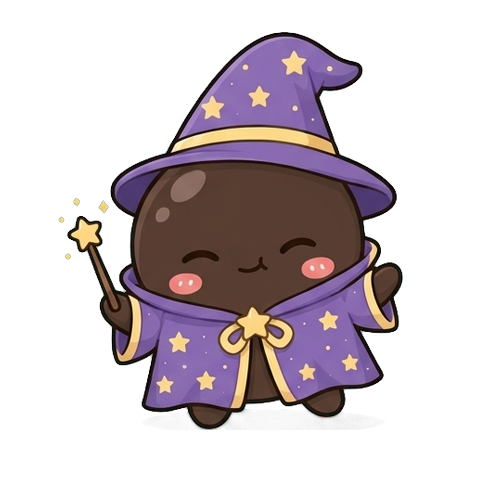
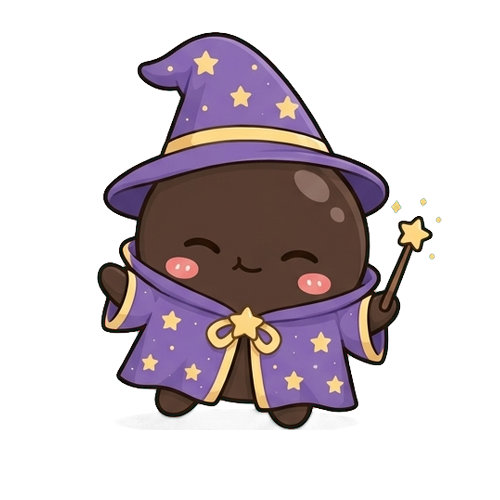
Audit-pass-2 fixes: game HUD, catch spawn, pulse race, cafe-glow, reduced-motion, wizard
Second-pass opus audit returned 15 confirmed; fixing here:

- HIGH install banner covered every game HUD (score/timer/quit) on any
  Chromium that fires beforeinstallprompt. Body now gets .game-open when
  a game opens (openPearlGame/openPlinko/openPong + counterparts), CSS
  slides the banner up while that class is present.
- HIGH catch board: pearls/ice/bombs spawned across the full game-area
  width, so they fell through the drawn pantry shelves at both sides — a
  target the cup couldn't chase. Spawn range now inset 14% on both sides
  to match the visible playfield.
- HIGH pulseMaker same-class timer race: a second pulse fired within the
  first's window used to be silently cut short at the FIRST setTimeout's
  remove(). Per-class timer id map + clearTimeout on re-entry keeps the
  full second animation.
- HIGH paid themes .cafe-glow silently hidden on winter/galaxy/library/
  sunset — disable rule was doubled (.cafe-glow.cafe-glow, 0,3,0) and
  the re-enable was single-class (0,2,0), so the tiebreak killed the
  second animated layer premium buyers paid for. Doubled the re-enable
  to match specificity. Verified: cafe-glow computed display now block
  on all four paid themes.
- HIGH wizard mixing pose: wand held out to the LEFT while the cup is on
  the RIGHT — same wrong-facing bug fix #5 corrected for the other five
  skins. wizard-mixing.png flipped in place; pose integrity gate PASSES.
- HIGH onboarding CTA text wrapped to two lines on every phone width and
[…]

Changed region(s): [[0.12, 0.06, 0.9, 0.87], [0.12, 0.51, 0.15, 0.54]]

diff --git a/app.js b/app.js
@@ -509,12 +509,20 @@ function setMakerState(stateName) {
 // Play a one-shot reaction class on the maker (pop / celebrate) without
 // disturbing its looping idle/mixing animation. Applied to the WRAP, not the
 // img, so the two animations compose instead of one replacing the other.
+// Per-class timer id, so a second pulseMaker(cls) call within the first
+// animation's window doesn't lose the tail of the second when the FIRST
+// setTimeout fires and strips the class early.
+const _pulseTimers = Object.create(null);
 function pulseMaker(cls, ms) {
   const wrap = els.makerWrap;
+  if (_pulseTimers[cls]) { clearTimeout(_pulseTimers[cls]); _pulseTimers[cls] = 0; }
   wrap.classList.remove(cls);
   void wrap.offsetWidth;       // force reflow so the animation restarts
   wrap.classList.add(cls);
-  setTimeout(() => wrap.classList.remove(cls), ms);
+  _pulseTimers[cls] = setTimeout(() => {
+    wrap.classList.remove(cls);
+    _pulseTimers[cls] = 0;
+  }, ms);
 }
 
 // Happy hop + a burst of treats over the scene
@@ -3529,6 +3537,12 @@ function showPremiumPreview(title, price) {
   }
 }
 
+// Any open game overlay owns the surface — the install banner sat on top of
+// the game HUD (score/timer/quit). This class is the toggle CSS reads.
+function markGameOpen(open) {
+  document.body.classList.toggle("game-open", !!open);
+}
+
 function stopGame() {
   if (game.active) {
     bankCatchScore();   // early exit (quit / break ended) keeps pearls earned so far
@@ -3542,7 +3556,9 @@ function stopGame() {
   // Always hide the overlay, even if the game already ended and is showing its
   // result screen — otherwise it stays painted over the focus UI after a break.
   els.gameResult.style.display = "none";
+  els.pearlGame.classList.remove("result-shown");
   els.pearlGame.style.display = "none";
+  markGameOpen(false);
 }
 
 function spawnPearl() {
@@ -3554,7 +3570,15 @@ function spawnPearl() {
   else if (r < ICE_CHANCE + BOMB_CHANCE + GOLDEN_CHANCE) kind = "golden";
 
   const size = kind === "ice" ? ICE_SIZE : (kind === "bomb" ? BOMB_SIZE : PEARL_SIZE);
-  const x = Math.random() * (els.gameArea.offsetWidth - size);
+  // Constrain spawn to the visible playfield only (~14% shelf inset on both
+  // sides of catch-board.jpg). Items were spawning inside the drawn pantry
+  // shelves — visually falling through jars and cups, and the cup can't reach
+  // that region anyway, so any spawn there was a target the player couldn't
+  // chase.
+  const w = els.gameArea.offsetWidth;
+  const inset = Math.round(w * 0.14);
+  const range = Math.max(1, w - size - inset * 2);
+  const x = inset + Math.random() * range;
   const el = document.createElement("div");
   el.className = "falling-pearl falling-" + kind;
   if (kind === "bomb") el.textContent = "💣";
@@ -3691,7 +3715,9 @@ function startPearlGame() {
   els.gameScore.innerHTML = ICON.pearl + "0";
   els.gameTimer.textContent = "0:" + String(CATCH_DURATION).padStart(2, "0");
   els.gameResult.style.display = "none";
+  els.pearlGame.classList.remove("result-shown");
   els.pearlGame.style.display = "flex";
+  markGameOpen(true);
   // Show the overlay BEFORE measuring, or offsetWidth is 0 (display:none) and the
   // cup spawns off-screen at left:-36px until the first touch.
   game.cupX = (els.gameArea.offsetWidth - GAME_CUP_W) / 2;
@@ -3745,6 +3771,7 @@ function endPearlGame() {
     "You caught " + game.caught + " pearl" + (game.caught !== 1 ? "s" : "") +
     " (best streak ×" + game.bestCombo + "). +" + earned + " to your stash" + capNote + ".";
   els.gameResult.style.display = "flex";
+  els.pearlGame.classList.add("result-shown");    // hides steering arrows via CSS
 }
 
 // ── Catch feel/juice helpers ──────────────────────────────────────────────
@@ -3909,6 +3936,13 @@ function drawPlinkoPearl(x, y) {
   const canvas = els.plinkoCanvas;
   const ctx = canvas.getContext("2d");
   const r = 8;
+  // Cream halo behind the pearl so the dark body no longer visually merges
+  // with the same-dark pegs it's bouncing through. The halo is drawn first
+  // and slightly larger; then the pearl on top.
+  ctx.beginPath();
+  ctx.arc(x, y, r + 2.5, 0, Math.PI * 2);
+  ctx.fillStyle = "rgba(255, 246, 231, 0.72)";
+  ctx.fill();
   const grad = ctx.createRadialGradient(x - 2.5, y - 2.5, 1, x, y, r);
   grad.addColorStop(0, "rgba(255,255,255,0.75)");
   grad.addColorStop(0.45, "#5b3d46");
@@ -3917,6 +3951,10 @@ function drawPlinkoPearl(x, y) {
   ctx.arc(x, y, r, 0, Math.PI * 2);
   ctx.fillStyle = grad;
   ctx.fill();
+  // Cream outline to keep the pearl distinct even against dark peg cores.
+  ctx.strokeStyle = "rgba(255, 246, 231, 0.85)";
+  ctx.lineWidth = 1.5;
+  ctx.stroke();
 }
 
 // Peg centres — same formula the board is drawn with, so the sim matches visuals
@@ -4053,6 +4091,7 @@ function openPlinko() {
   els.plinkoDropBtn.textContent = "Drop Pearl";
   updatePlinkoHUD();
   els.plinkoGame.style.display = "flex";
+  markGameOpen(true);
   requestAnimationFrame(() => drawPlinkoBoard(-1));
 }
 
@@ -4060,6 +4099,7 @@ function closePlinko() {
   if (plinko.animId) { cancelAnimationFrame(plinko.animId); plinko.animId = null; }
   plinko.dropping = false;
   els.plinkoGame.style.display = "none";
+  markGameOpen(false);
 }
 
 function updatePlinkoHUD() {
@@ -6913,8 +6953,13 @@ function renderOnboardStep() {
     .join("");
 
   els.onboardBack.classList.toggle("hidden", onboardStep === 0);
-  els.onboardNext.textContent = isName ? "That's me! 🧋"
-    : (onboardStep === onboardDeck().length - 1 ? "Let's go! 🧋" : "Next");
+  // Drop the trailing 🧋 on primary CTAs: the emoji pushed the label past the
+  // pill's intrinsic width on every phone ≤414px, so "That's me!" wrapped to
+  // two lines with the boba glyph dangling on line 2, and because .onboard-
+  // actions is align-items:stretch the Back pill inflated to match (both grew
+  // to 76-96px tall). Kept the emoji on inner illustrations, not chrome.
+  els.onboardNext.textContent = isName ? "That's me!"
+    : (onboardStep === onboardDeck().length - 1 ? "Let's go!" : "Next");
 }
 
 function onboardAdvance() {
@@ -7155,6 +7200,7 @@ function openPong() {
   els.pongResult.style.display = "none";
   els.pongHint.style.display = "";
   els.pongGame.style.display = "flex";
+  markGameOpen(true);
   updatePongHUD();
   requestAnimationFrame(() => {
     if (!pong.opening) return;         // closed again before this frame ran — don't revive
@@ -7174,6 +7220,7 @@ function closePong() {
   pong.active = false;
   pong.splash = null;
   els.pongGame.style.display = "none";
+  markGameOpen(false);
 }
 
 function pongLaunch() {

diff --git a/styles.css b/styles.css
@@ -65,6 +65,15 @@ img { -webkit-user-drag: none; user-select: none; }
 }
 .install-banner.show { transform: translateY(0); }
 .install-banner[hidden] { display: none; }
+/* Any open game overlay owns the whole surface — the install banner sat on
+   top and hid the game HUD (score/timer/quit). Suppress the banner while a
+   game is open; it comes back the moment the overlay closes. app.js toggles
+   `.game-open` on <body> in openPearlGame/openPlinko/openPong + their
+   stop/close counterparts. */
+body.game-open .install-banner {
+  transform: translateY(-110%) !important;
+  pointer-events: none;
+}
 .install-icon { font-size: 1.3rem; }
 .install-text { flex: 1; font-size: 0.8rem; font-weight: 800; line-height: 1.25; }
 .install-btn {
@@ -1010,10 +1019,14 @@ body {
    moving parts; each theme repurposes them. All are low-contrast and slow on
    purpose — this is ambience behind a character you stare at for 30 minutes,
    not a screensaver. */
-.scene[data-theme="winter"] .cafe-glow,
-.scene[data-theme="galaxy"] .cafe-glow,
-.scene[data-theme="library"] .cafe-glow,
-.scene[data-theme="sunset"] .cafe-glow {
+/* Doubled .cafe-glow.cafe-glow on the re-enable to match the (0,3,0)
+   specificity of the higher-up disable rules — a single-class version lost
+   the tiebreak and left the "second animated layer" invisible on every paid
+   theme, so premium buyers got fewer effects than the free night theme. */
+.scene[data-theme="winter"]  .cafe-glow.cafe-glow,
+.scene[data-theme="galaxy"]  .cafe-glow.cafe-glow,
+.scene[data-theme="library"] .cafe-glow.cafe-glow,
+.scene[data-theme="sunset"]  .cafe-glow.cafe-glow {
   display: block;
   inset: 0;
   height: auto;
@@ -4113,6 +4126,10 @@ dialog[open] .reward-confetti span:nth-child(7) { animation-delay: 0.02s; }
 }
 @keyframes area-flash { from { opacity: 1; } to { opacity: 0; } }
 
+/* Hide catch arrows while the result overlay is up: they sat at z:6 above
+   the .game-result at z:5, so their cream circles bled through as ghost
+   buttons and taps in that region hit the arrows, not the result CTA. */
+.pearl-game.result-shown .catch-arrow { display: none; }
 .game-result {
   position: absolute;
   inset: 0;
@@ -4504,6 +4521,17 @@ dialog[open] .reward-confetti span:nth-child(7) { animation-delay: 0.02s; }
   #onboardTitle, #onboardBody,
   .flame.is-lit,
   .coll-empty-art, .coll-empty-zzz span { animation: none !important; }
+  /* Exempt the four core mascot state anims from the 1ms clamp — otherwise
+     the character froze mid-transform (or teleported across the counter on
+     focus), which read as broken, not calm. Idle breathing + sleep breathing
+     are gentle enough that they stay; walk/mix keep their motion because
+     losing them made the session read as dead. */
+  .maker-img[data-state="idle"]     { animation-duration: 4s   !important; animation-iteration-count: infinite !important; }
+  .maker-img[data-state="walking"]  { animation-duration: 0.52s !important; animation-iteration-count: infinite !important; }
+  .maker-img[data-state="mixing"]   { animation-duration: 0.9s !important; animation-iteration-count: infinite !important; }
+  .maker-img[data-state="sleeping"] { animation-duration: 3.6s !important; animation-iteration-count: infinite !important; }
+  /* The wrap's walk glide is a transition, not a keyframe — keep it. */
+  .maker-wrap { transition-duration: 1050ms !important; }
 }
 
 /* ── Feature tour (spotlight coach marks) ─────────────────────────────────── */
@@ -4799,6 +4827,14 @@ dialog[open] .reward-confetti span:nth-child(7) { animation-delay: 0.02s; }
      inside the room, which pushes on the fiction. The window pane occupies
      roughly the middle-upper area; these numbers were eyeballed against
      Shop Background Rainy.png fitted with `cover`. */
+  left: 8%; right: 8%;
+  top: 8%; height: 42%;
+}
+
+/* Same fiction-break as rainy: snow/leaves fell over the interior wall on
+   both sides of the window. Inset both to the window pane. */
+.scene[data-theme="winter"] .theme-fx,
+.scene[data-theme="autumn"] .theme-fx {
   left: 8%; right: 8%;
   top: 8%; height: 42%;
 }

diff --git a/sw.js b/sw.js
@@ -7,7 +7,7 @@
 // and every user silently keeps the OLD cache — updates stop shipping with no
 // error anywhere. That happened: assets/Bed.png was deleted and left listed
 // here, which pinned clients to pre-rebuild art. tools/check-shell.py guards it.
-const CACHE = "mr-tapioca-v211";
+const CACHE = "mr-tapioca-v212";
 
 // Focus-tune audio lives in its OWN cache, on purpose, and is deliberately NOT
 // in SHELL below. Two reasons, both learned the hard way:
